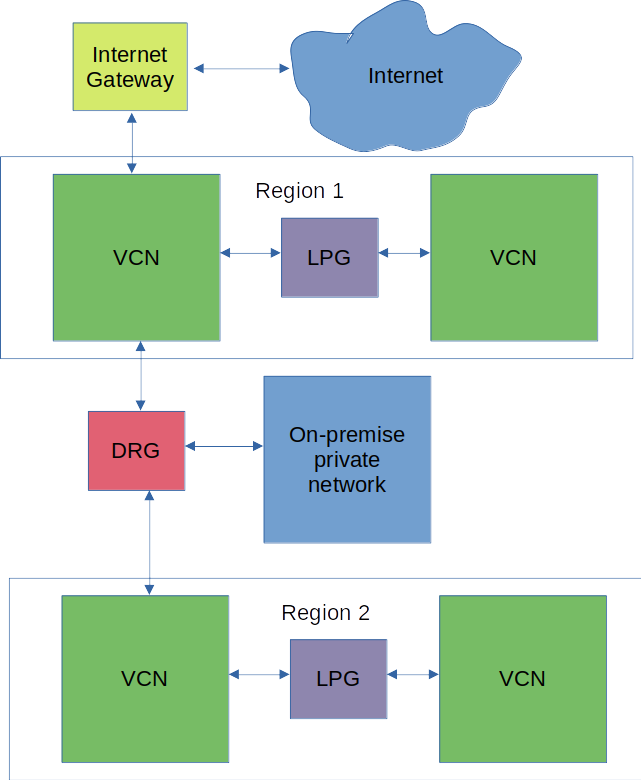
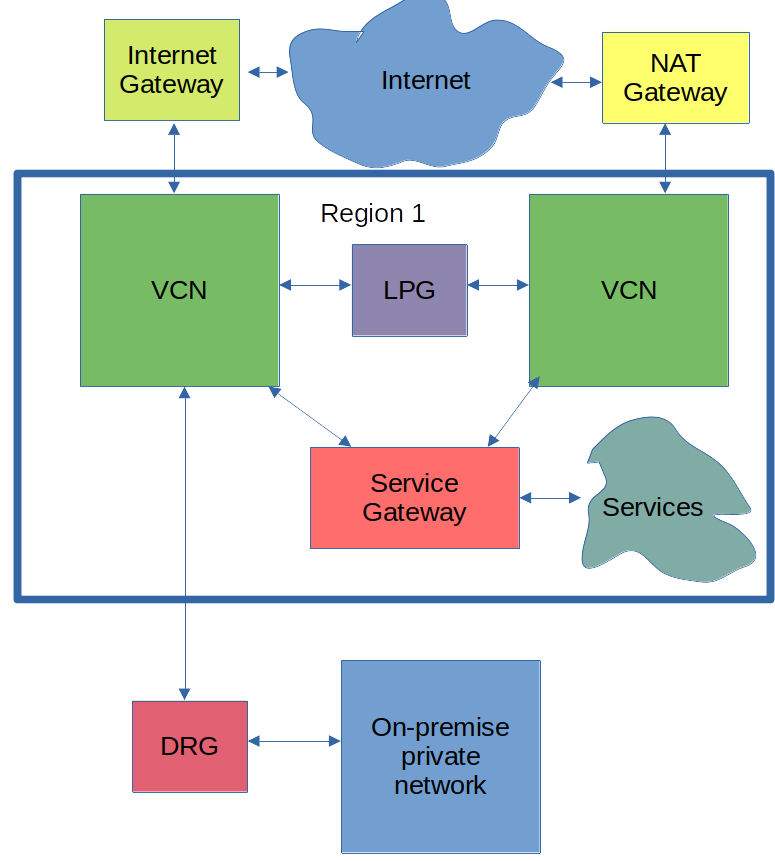
Resolved issue #121 'Recognize the different Endpoints'

diff --git a/docs/home/oci-2024-certified-networking-professional/design-and-deploy-oci-virtual-cloud-networks-vcn/recognize-the-different-endpoints.html b/docs/home/oci-2024-certified-networking-professional/design-and-deploy-oci-virtual-cloud-networks-vcn/recognize-the-different-endpoints.html
@@ -10,3 +10,68 @@ breadcrumbs:
 - title: 'Design and Deploy OCI Virtual Cloud Networks (VCN)'
   url: home/oci-2024-certified-networking-professional/design-and-deploy-oci-virtual-cloud-networks-vcn.html
 ---
+
+<h2 id="TOC-summary">Summary</h2>
+<p>There appears to be three (3) types of endpoints:</p>
+<ol>
+  <li><a href="https://docs.oracle.com/en-us/iaas/api/">API</a></li>
+  <li>OCI standard</li>
+  <li>Private</li>
+</ol>
+<h2 id="TOC-references">References</h2>
+<ul>
+  <li><a href="https://docs.oracle.com/iaas/">Oracle Cloud Infrastructure Documentation</a></li>
+  <ul>
+    <li><a href="https://docs.oracle.com/en-us/iaas/Content/ResourceManager/home.htm">Resource Manager</a></li>
+    <ul>
+      <li><a href="https://docs.oracle.com/en-us/iaas/Content/ResourceManager/Tasks/private-endpoints.htm">Managing Private Endpoints</a></li>
+    </ul>
+    <li><a href="https://docs.oracle.com/en-us/iaas/api/">API Reference and Endpoints</a></li>
+    <li><a href="https://docs.oracle.com/en-us/iaas/Content/libraries/glossary/glossary-intro.htm">Glossary</a></li>
+  </ul>
+</ul>
+<h2 id="TOC-glossary-entries">Glossary Entries</h2>
+<p>Searching the <a href="https://docs.oracle.com/en-us/iaas/Content/libraries/glossary/glossary-intro.htm">Glossary</a> for "endpoint" returns the following entries:</p>
+<ul>
+  <li><div>
+    <p style="font-family: Arial, Helvetica, sans-serif; font-size: large;"><a href="https://docs.oracle.com/en-us/iaas/Content/libraries/glossary/glossary-intro.htm#glossary.Term70">mount target (File Storage)</a></p>
+    <p>A network file system (NFS) endpoint that allows a file system to be accessed by clients.</p>
+  </div></li>
+  <li><div>
+    <p style="font-family: Arial, Helvetica, sans-serif; font-size: large;"><a href="https://docs.oracle.com/en-us/iaas/Content/libraries/glossary/glossary-intro.htm#unique_2043702524">private endpoint (Resource Manager)</a></p>
+    <p>Network information for connecting to a nonpublic resource. Allows Resource Manager to remotely access cloud resources that are not available through the Internet.</p>
+  </div></li>
+  <li><div>
+    <p style="font-family: Arial, Helvetica, sans-serif; font-size: large;"><a href="https://docs.oracle.com/en-us/iaas/Content/libraries/glossary/glossary-intro.htm#unique_1344554896">Recovery Service Subnet</a></p>
+    <p>A recovery service subnet identifies the Recovery Service private endpoint on a dedicated subnet within a virtual cloud network (VCN) in your tenancy. The OCI Console provides an easy-to-use interface to configure recovery service subnets.</p>
+  </div></li>
+  <li><div>
+    <p style="font-family: Arial, Helvetica, sans-serif; font-size: large;"><a href="https://docs.oracle.com/en-us/iaas/Content/libraries/glossary/glossary-intro.htm#glossentry_registereddatabase">registered database</a></p>
+    <p>A resource that captures source and target credential information and enables networking between a service tenancy virtual cloud network (VCN) and your tenancy VCN using a private endpoint.</p>
+  </div></li>
+  <li><div>
+    <p style="font-family: Arial, Helvetica, sans-serif; font-size: large;"><a href="https://docs.oracle.com/en-us/iaas/Content/libraries/glossary/glossary-intro.htm#glossary.Term106">subscription (Notifications)</a></p>
+    <p>An endpoint for a topic, typically a URL or email address. Published messages are sent to each subscription for a topic.</p>
+  </div></li>
+  <li><div>
+    <p style="font-family: Arial, Helvetica, sans-serif; font-size: large;"><a href="https://docs.oracle.com/en-us/iaas/Content/libraries/glossary/glossary-intro.htm#glossary.Term212">virtual network interface card (VNIC)</a></p>
+    <p>Enables an instance to connect to a virtual cloud network (VCN) and determines how the instance connects with endpoints inside and outside the VCN. Each instance automatically comes with a primary VNIC, and you can add secondary ones. Other types of cloud resources, such as load balancers and DB systems, also automatically get a VNIC when they are created.</p>
+  </div></li>
+  <li><div>
+    <p style="font-family: Arial, Helvetica, sans-serif; font-size: large;"><a href="https://docs.oracle.com/en-us/iaas/Content/libraries/glossary/glossary-intro.htm#glossary.Term57">VNIC (virtual network interface card)</a></p>
+    <p>Enables an instance to connect to a virtual cloud network (VCN) and determines how the instance connects with endpoints inside and outside the VCN. Each instance automatically comes with a primary VNIC, and you can add secondary ones. Other types of cloud resources, such as load balancers and DB systems, also automatically get a VNIC when they are created.</p>
+  </div></li>
+</ul>
+<p>Based on the above Glossary entries, the standard OCI endpoints are:</p>
+<ul>
+  <li>Database</li>
+  <li>Mount (NFS)</li>
+  <li>Recovery Service Subnet</li>
+  <li>Subscription (notification)</li>
+  <li>VNIC</li>
+</ul>
+<h2 id="TOC-private-endpoints">Private Endpoints</h2>
+<p>"<a href="https://docs.oracle.com/en-us/iaas/Content/ResourceManager/Tasks/private-endpoints.htm">Managing Private Endpoints</a>" says:</p>
+<blockquote>
+  <p>With private endpoints, you can access nonpublic cloud resources in your tenancy from Resource Manager. For example, configure a private compute instance using Terraform's remote exec functionality and access Terraform configurations in a private GitHub server.</p>
+</blockquote>

diff --git a/docs/home/oci-2024-certified-networking-professional.html b/docs/home/oci-2024-certified-networking-professional.html
@@ -17,8 +17,8 @@ breadcrumbs:
 <tr><td colspan="3" class="exam-objective"><a href="home/oci-2024-certified-networking-professional/design-and-deploy-oci-virtual-cloud-networks-vcn.html">Design and Deploy OCI Virtual Cloud Networks (VCN)</a></td></tr>
 <tr><td><a href="home/oci-2024-certified-networking-professional/design-and-deploy-oci-virtual-cloud-networks-vcn/examine-vcnsubnets-characteristics.html">Examine VCN/Subnets characteristics</a></td><td class="exam-rating-4">4</td><td></td></tr>
 <tr><td><a href="home/oci-2024-certified-networking-professional/design-and-deploy-oci-virtual-cloud-networks-vcn/demonstrate-an-understanding-of-ipv4ipv6-addressing.html">Demonstrate an understanding of IPv4/IPv6 addressing</a></td><td class="exam-rating-4">4</td><td></td></tr>
-<tr><td><a href="home/oci-2024-certified-networking-professional/design-and-deploy-oci-virtual-cloud-networks-vcn/differentiate-the-vcn-gateways-roles.html">Differentiate the VCN Gateway's roles</a></td><td class="exam-rating-1">1</td><td></td></tr>
-<tr><td><a href="home/oci-2024-certified-networking-professional/design-and-deploy-oci-virtual-cloud-networks-vcn/recognize-the-different-endpoints.html">Recognize the different Endpoints</a></td><td class="exam-rating-1">1</td><td></td></tr>
+<tr><td><a href="home/oci-2024-certified-networking-professional/design-and-deploy-oci-virtual-cloud-networks-vcn/differentiate-the-vcn-gateways-roles.html">Differentiate the VCN Gateway's roles</a></td><td class="exam-rating-4">4</td><td></td></tr>
+<tr><td><a href="home/oci-2024-certified-networking-professional/design-and-deploy-oci-virtual-cloud-networks-vcn/recognize-the-different-endpoints.html">Recognize the different Endpoints</a></td><td class="exam-rating-3">3</td><td></td></tr>
 <tr><td><a href="home/oci-2024-certified-networking-professional/design-and-deploy-oci-virtual-cloud-networks-vcn/demonstrate-mastery-in-applying-endpoints-to-a-networking-architecture.html">Demonstrate mastery in applying EndPoints to a Networking Architecture</a></td><td class="exam-rating-1">1</td><td></td></tr>
 <tr><td colspan="3" class="exam-objective"><a href="home/oci-2024-certified-networking-professional/plan-and-design-oci-networking-solutions-and-app-services.html">Plan and Design OCI Networking Solutions and App Services</a></td></tr>
 <tr><td><a href="home/oci-2024-certified-networking-professional/plan-and-design-oci-networking-solutions-and-app-services/recognize-ip-management-details-select-procedural-steps.html">Recognize IP Management details, select procedural steps</a></td><td class="exam-rating-1">1</td><td></td></tr>

diff --git a/docs/home/oci-2024-certified-networking-professional/design-and-deploy-oci-virtual-cloud-networks-vcn/differentiate-the-vcn-gateways-roles.html b/docs/home/oci-2024-certified-networking-professional/design-and-deploy-oci-virtual-cloud-networks-vcn/differentiate-the-vcn-gateways-roles.html
@@ -11,10 +11,12 @@ breadcrumbs:
   url: home/oci-2024-certified-networking-professional/design-and-deploy-oci-virtual-cloud-networks-vcn.html
 ---
 
-<p>There are at least three (3) VCN Gateway roles:</p>
+<p>There are at least five (5) VCN Gateway roles:</p>
 <ol>
-  <li><span style="font-family: Arial, Helvetica, sans-serif; font-weight: bold;">DRG</span>: Dynamic Routing Gateway is used to route between the private on-premise network, or to a VCN in another region.</li>
+  <li><span style="font-family: Arial, Helvetica, sans-serif; font-weight: bold;">DRG</span>: Dynamic Routing Gateway is used to route between the private on-premise network.</li>
   <li><span style="font-family: Arial, Helvetica, sans-serif; font-weight: bold;">Internet</span>: Internet Gateway is used to route between a VCN and the Internet.</li>
   <li><span style="font-family: Arial, Helvetica, sans-serif; font-weight: bold;">LPG</span>: Local Peering Gateway is used to route between VCNs in the same region.</li>
+  <li><span style="font-family: Arial, Helvetica, sans-serif; font-weight: bold;">NAT</span>: <cite>An optional virtual router that you can add to your virtual cloud network (VCN) to perform Network Address Translation (NAT). A NAT gateway gives cloud resources without public IP addresses access to the internet without exposing those resources to incoming internet connections.</cite></li>
+  <li><span style="font-family: Arial, Helvetica, sans-serif; font-weight: bold;">Service</span>: <cite>An optional virtual router that you can add to your virtual cloud network (VCN). The gateway enables on-premises hosts or VCN hosts to privately access Oracle services (such as Object Storage and Autonomous Database) without exposing the resources to the public internet.</cite></li>
 </ol>
 <img src="home/oci-2024-certified-networking-professional/design-and-deploy-oci-virtual-cloud-networks-vcn/differentiate-the-vcn-gateways-roles/gateway_roles.png" />
